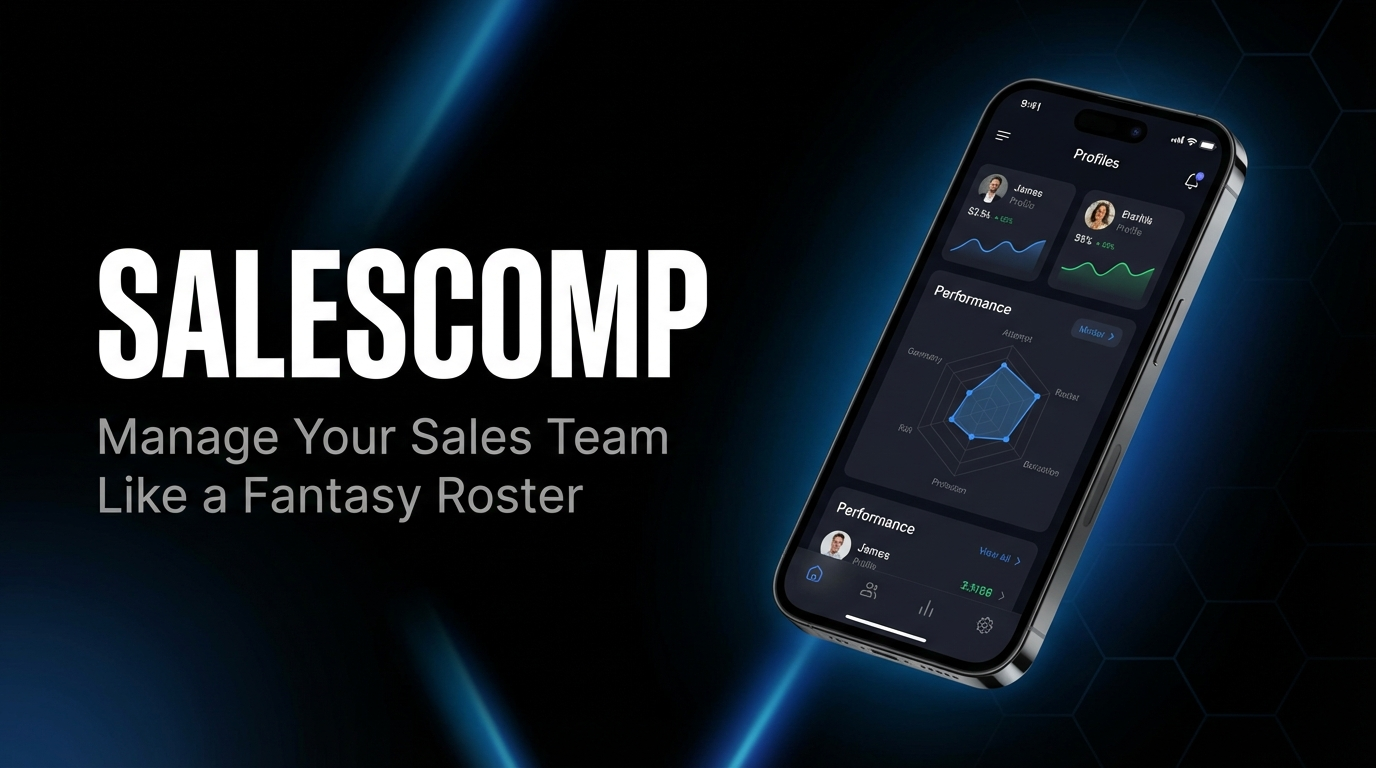
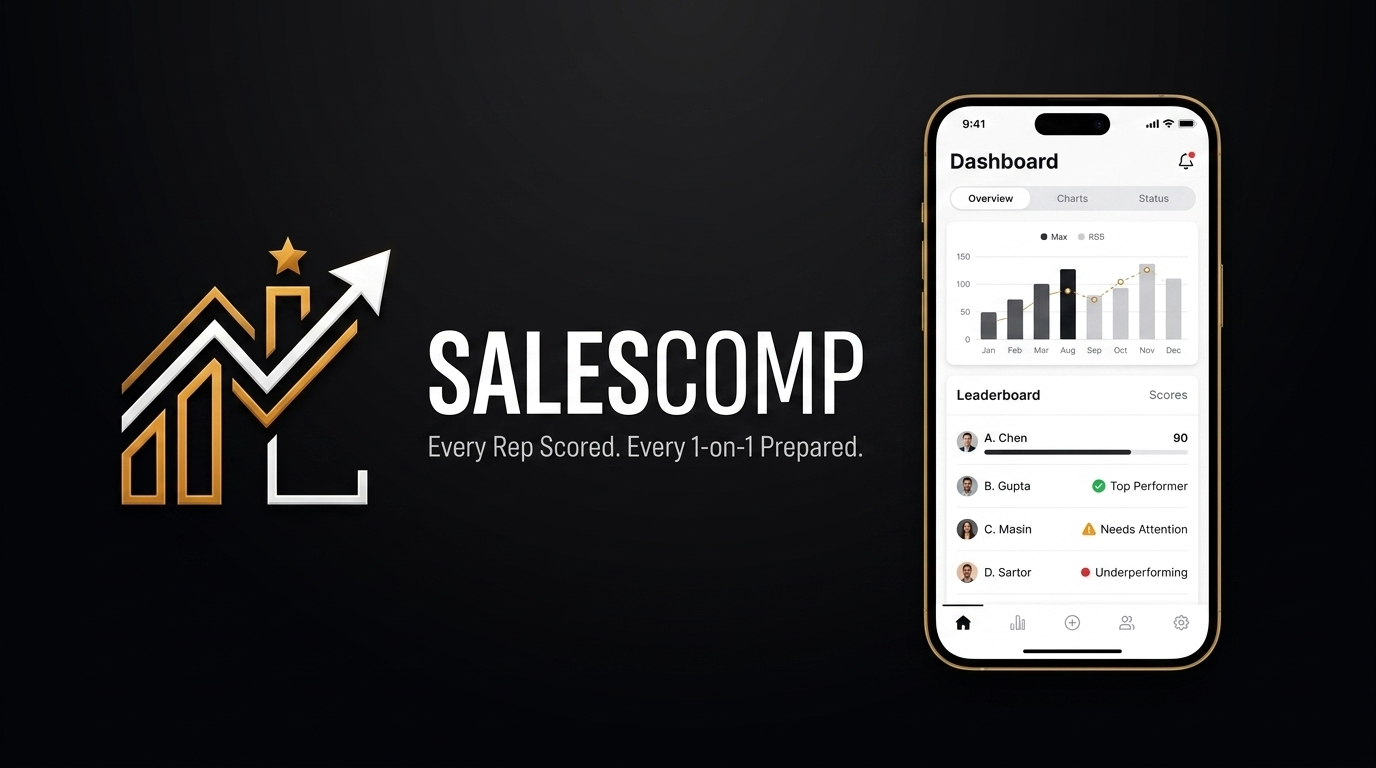
feat: add assists/Dynamic Duos + new OG social image
Adds sports-style assist tracking (SDR/prospector assists closer),
Dynamic Duos section on roster showing top pairings with combined
revenue, assist badges in activity feed, AST stat in player cards.
New 16:9 OG image for social media sharing.

diff --git a/salescomp/index.html b/salescomp/index.html
@@ -858,6 +858,23 @@ body{
 }
 
 /* Manager sees note */
+/* ===== DYNAMIC DUOS ===== */
+.duo-section{padding:0 16px;}
+.duo-card{background:var(--card);border:1px solid var(--border);border-radius:14px;padding:14px;margin-bottom:8px;display:flex;align-items:center;gap:12px;cursor:pointer;}
+.duo-card:active{opacity:.7;}
+.duo-photos{display:flex;align-items:center;flex-shrink:0;}
+.duo-photo{width:40px;height:40px;border-radius:50%;overflow:hidden;border:2px solid var(--border-l);background:var(--elevated);}
+.duo-photo img{width:100%;height:100%;object-fit:cover;object-position:center top;}
+.duo-photo:last-child{margin-left:-12px;}
+.duo-info{flex:1;min-width:0;}
+.duo-names{font-family:'Barlow Condensed',sans-serif;font-size:14px;font-weight:700;text-transform:uppercase;}
+.duo-role{font-size:11px;color:var(--t3);margin-top:1px;}
+.duo-stats{display:flex;gap:10px;margin-top:6px;}
+.duo-stat{font-size:11px;color:var(--t2);}
+.duo-stat strong{color:var(--t1);font-weight:700;}
+.duo-badge{flex-shrink:0;padding:4px 10px;border-radius:6px;font-family:'Barlow Condensed',sans-serif;font-size:12px;font-weight:700;text-transform:uppercase;letter-spacing:.3px;}
+.assist-tag{display:inline-flex;align-items:center;gap:3px;padding:2px 7px;border-radius:3px;font-size:9px;font-weight:700;text-transform:uppercase;letter-spacing:.3px;background:rgba(0,122,255,0.1);color:var(--blue);}
+
 .manager-sees-note {
   margin-top: 8px;
   padding: 8px 12px;
@@ -933,6 +950,10 @@ body{
     <!-- Focus This Week -->
     <div class="sh"><div class="sh-t" data-i18n="focus_this_week">Focus This Week</div></div>
     <div class="focus-cards" id="focusCards"></div>
+
+    <!-- Dynamic Duos -->
+    <div class="sh"><div class="sh-t" data-i18n="dynamic_duos">Dynamic Duos</div></div>
+    <div class="duo-section" id="duoSection"></div>
 
     <!-- Activity Feed -->
     <div class="sh"><div class="sh-t" data-i18n="recent_activity">Recent Activity</div><div class="sh-a" data-i18n="view_all">View All</div></div>
@@ -1118,9 +1139,27 @@ const T = {
     activity_deandra: 'has 3 deals in late stage that need attention',
     activity_tyler: 'hasn\'t updated CRM in 5 days',
     activity_sarah: 'created $62K in new pipeline this week',
+    activity_assist_sarah: 'assisted on Marcus\'s Henderson close ($45K)',
+    activity_assist_deandra: 'sourced the Vertex lead that Marcus is closing ($32K)',
+    time_30m: '30m ago',
     time_2h: '2h ago',
     time_4h: '4h ago',
     time_1d: '1d ago',
+
+    // Assists & Duos
+    dynamic_duos: 'Dynamic Duos',
+    assists: 'Assists',
+    ast: 'AST',
+    duo_builder_closer: 'Builder + Closer',
+    duo_builder_mgr: 'Builder + Account Mgr',
+    duo_sdr_closer: 'SDR + Closer',
+    duo_deals_together: 'deals together',
+    duo_best_pairing: 'Top Duo',
+    duo_assisted_rev: 'Assisted Rev',
+    assist_given: 'Assists Given',
+    assist_received: 'Assists Received',
+    assist_partner: 'Top Partner',
+    sourced_by: 'Sourced by',
 
     // Matchup
     mu_label: 'Head to Head',
@@ -1302,9 +1341,27 @@ const T = {
     activity_deandra: '最終段階の3件の案件に注目が必要',
     activity_tyler: '5日間CRM未更新',
     activity_sarah: '今週$62Kの新規パイプラインを創出',
+    activity_assist_sarah: 'Marcusのヘンダーソン成約をアシスト ($45K)',
+    activity_assist_deandra: 'Marcusがクロージング中のVertex案件を発掘 ($32K)',
+    time_30m: '30分前',
     time_2h: '2時間前',
     time_4h: '4時間前',
     time_1d: '1日前',
+
+    // Assists & Duos
+    dynamic_duos: 'ダイナミック・デュオ',
+    assists: 'アシスト',
+    ast: 'AST',
+    duo_builder_closer: 'ビルダー + クローザー',
+    duo_builder_mgr: 'ビルダー + アカウントMgr',
+    duo_sdr_closer: 'SDR + クローザー',
+    duo_deals_together: '件の共同案件',
+    duo_best_pairing: 'トップデュオ',
+    duo_assisted_rev: 'アシスト売上',
+    assist_given: 'アシスト提供',
+    assist_received: 'アシスト受領',
+    assist_partner: 'トップパートナー',
+    sourced_by: '発掘者:',
 
     // Matchup
     mu_label: '比較分析',
@@ -1540,6 +1597,7 @@ function setLang(l) {
   // Re-render dynamic content
   renderFocusCards();
   renderActivityFeed();
+  renderDuos();
   renderRoster();
   // Re-render current screen-specific content
   if (viewMode === 'manager') {
@@ -1562,6 +1620,7 @@ let currentTkIdx = 0;
 // ===== DATA =====
 const D=[
 {id:0,name:'Marcus Thompson',sh:'M. Thompson',f:'Marcus',img:'assets/marcus-thompson.png',role:'Closer',ten:'3yr',co:'Apex Solutions',score:91,avg:84,szn:87,tr:'+8',td:'up',st:'Hot',sc:'b-hot',dot:'var(--green)',sub:'7 deals this week',
+assists:2,assistsFrom:[{id:1,deals:1,rev:'$48K'},{id:3,deals:1,rev:'$34K'}],
 scoreBreakdown:{rev:95,pipe:72,activity:88,efficiency:96},
 stats:{d:7,r:'$142K',p:'$89K',c:'38%'},
 skills:[{l:'Closing',v:92,c:'var(--green)'},{l:'Negotiation',v:88,c:'var(--green)'},{l:'Relationships',v:78,c:'var(--blue)'},{l:'Pipeline Mgmt',v:65,c:'var(--amber)'},{l:'Prospecting',v:48,c:'var(--red)'},{l:'CRM Discipline',v:72,c:'var(--blue)'}],
@@ -1592,6 +1651,7 @@ improveEn: ['Add 5 more outbound touches per week to close your prospecting gap.
 improveJp: ['見込み客開拓のギャップを埋めるため、週5件のアウトバウンドを追加しましょう。', 'メリディアンには標準的なフォローアップではなく、より柔らかい再エンゲージメントを検討してください。', 'エンタープライズの成約率を活かして、より大きな案件を追求しましょう。']
 },
 {id:1,name:'Sarah Chen',sh:'S. Chen',f:'Sarah',img:'assets/sarah-chen.png',role:'Pipeline Builder',ten:'2yr',co:'Apex Solutions',score:82,avg:74,szn:76,tr:'+6',td:'up',st:'Streak',sc:'b-str',dot:'var(--amber)',sub:'$178K new pipeline',
+assists:5,assistsTo:[{id:0,deals:3,rev:'$125K'},{id:2,deals:2,rev:'$44K'}],
 scoreBreakdown:{rev:62,pipe:96,activity:92,efficiency:68},
 stats:{d:3,r:'$48K',p:'$178K',c:'24%'},
 skills:[{l:'Closing',v:55,c:'var(--amber)'},{l:'Negotiation',v:62,c:'var(--amber)'},{l:'Relationships',v:74,c:'var(--blue)'},{l:'Pipeline Mgmt',v:94,c:'var(--green)'},{l:'Prospecting',v:91,c:'var(--green)'},{l:'CRM Discipline',v:88,c:'var(--green)'}],
@@ -1621,6 +1681,7 @@ improveEn: ['Practice pricing objection handling. Consider role-playing with Mar
 improveJp: ['価格異議への対応を練習しましょう。Marcusとのロールプレイを検討してください。', '発掘段階の案件を提案段階により早く進めることに注力しましょう。', 'パイプラインの量はエリート級です。次はコンバージョンの質に注力しましょう。']
 },
 {id:2,name:'Jake Rivera',sh:'J. Rivera',f:'Jake',img:'assets/jake-rivera.png',role:'Account Manager',ten:'4yr',co:'Apex Solutions',score:75,avg:72,szn:73,tr:'+3',td:'up',st:null,sc:null,dot:null,sub:'94% account retention',
+assists:1,assistsTo:[{id:0,deals:1,rev:'$32K'}],
 scoreBreakdown:{rev:78,pipe:70,activity:72,efficiency:80},
 stats:{d:4,r:'$82K',p:'$65K',c:'32%'},
 skills:[{l:'Closing',v:72,c:'var(--blue)'},{l:'Negotiation',v:70,c:'var(--blue)'},{l:'Relationships',v:85,c:'var(--green)'},{l:'Pipeline Mgmt',v:75,c:'var(--blue)'},{l:'Prospecting',v:68,c:'var(--blue)'},{l:'CRM Discipline',v:80,c:'var(--green)'}],
@@ -1649,6 +1710,7 @@ improveEn: ['Pursue one net-new enterprise account to stretch beyond your comfor
 improveJp: ['新規エンタープライズ案件を一つ追求し、コンフォートゾーンを超えましょう。', 'Apexのステークホルダー関係を拡大し、単一障害点リスクを軽減しましょう。', '関係構築スキルはエリート級です。更新だけでなく新規ビジネスにも活かしましょう。']
 },
 {id:3,name:'DeAndra Williams',sh:'D. Williams',f:'DeAndra',img:'assets/deandra-williams.png',role:'SDR',ten:'6mo',co:'Apex Solutions',score:64,avg:52,szn:55,tr:'+12',td:'up',st:'Questionable',sc:'b-q',dot:'var(--amber)',sub:'3 deals in late stage',
+assists:3,assistsTo:[{id:0,deals:2,rev:'$73K'},{id:2,deals:1,rev:'$18K'}],
 scoreBreakdown:{rev:42,pipe:78,activity:88,efficiency:38},
 stats:{d:2,r:'$24K',p:'$134K',c:'18%'},
 skills:[{l:'Closing',v:42,c:'var(--red)'},{l:'Negotiation',v:38,c:'var(--red)'},{l:'Relationships',v:58,c:'var(--amber)'},{l:'Pipeline Mgmt',v:55,c:'var(--amber)'},{l:'Prospecting',v:85,c:'var(--green)'},{l:'CRM Discipline',v:70,c:'var(--blue)'}],
@@ -1678,6 +1740,7 @@ improveEn: ['Practice the "ask" in closing. Shadow Marcus on his next deal.', 'B
 improveJp: ['クロージングの「お願い」を練習しましょう。Marcusの次の案件に同席してください。', '2回目の商談のフレームワークを作り、発掘段階を突破しましょう。', '見込み客開拓はエリート級。そのエネルギーをクロージングの自信に変換しましょう。']
 },
 {id:4,name:'Tyler Brooks',sh:'T. Brooks',f:'Tyler',img:'assets/tyler-brooks.png',role:'Veteran',ten:'7yr',co:'Apex Solutions',score:48,avg:62,szn:58,tr:'-14',td:'down',st:'Cold',sc:'b-cold',dot:'var(--red)',sub:'CRM 3 weeks behind',
+assists:0,assistsTo:[],
 scoreBreakdown:{rev:55,pipe:32,activity:28,efficiency:72},
 stats:{d:2,r:'$38K',p:'$12K',c:'25%'},
 skills:[{l:'Closing',v:68,c:'var(--blue)'},{l:'Negotiation',v:82,c:'var(--green)'},{l:'Relationships',v:90,c:'var(--green)'},{l:'Pipeline Mgmt',v:45,c:'var(--red)'},{l:'Prospecting',v:32,c:'var(--red)'},{l:'CRM Discipline',v:28,c:'var(--red)'}],
@@ -2122,11 +2185,41 @@ function renderFocusCards() {
   `;
 }
 
+// ===== RENDER DYNAMIC DUOS =====
+function renderDuos() {
+  const duos = [
+    { a: 1, b: 0, type: 'duo_builder_closer', deals: 3, rev: '$125K', revNum: 125 },
+    { a: 3, b: 0, type: 'duo_sdr_closer', deals: 2, rev: '$73K', revNum: 73 },
+    { a: 1, b: 2, type: 'duo_builder_mgr', deals: 2, rev: '$44K', revNum: 44 }
+  ];
+  document.getElementById('duoSection').innerHTML = duos.map((duo, i) => {
+    const pA = D[duo.a], pB = D[duo.b];
+    const isBest = i === 0;
+    return `<div class="duo-card" onclick="openCard(${duo.b})">
+      <div class="duo-photos">
+        <div class="duo-photo"><img src="${pA.img}"></div>
+        <div class="duo-photo"><img src="${pB.img}"></div>
+      </div>
+      <div class="duo-info">
+        <div class="duo-names">${pA.f} + ${pB.f}</div>
+        <div class="duo-role">${t(duo.type)}</div>
+        <div class="duo-stats">
+          <div class="duo-stat"><strong>${duo.rev}</strong> ${t('duo_assisted_rev')}</div>
+          <div class="duo-stat"><strong>${duo.deals}</strong> ${t('duo_deals_together')}</div>
+        </div>
+      </div>
+      ${isBest ? `<div class="duo-badge" style="background:var(--green-bg);color:var(--green);">${t('duo_best_pairing')}</div>` : ''}
+    </div>`;
+  }).join('');
+}
+
 // ===== RENDER ACTIVITY FEED =====
 function renderActivityFeed() {
   document.getElementById('activityFeed').innerHTML = `
     <div class="feed-item"><div class="feed-dot" style="background:var(--green)"></div><div class="feed-text"><strong>Marcus Thompson</strong> ${t('activity_marcus')}</div><div class="feed-time">${t('time_2h')}</div></div>
+    <div class="feed-item"><div class="feed-dot" style="background:var(--blue)"></div><div class="feed-text"><strong>Sarah Chen</strong> ${t('activity_assist_sarah')} <span class="assist-tag"><svg width="10" height="10" viewBox="0 0 24 24" fill="none" stroke="currentColor" stroke-width="2.5"><path d="M17 1l4 4-4 4"/><path d="M3 11V9a4 4 0 014-4h14"/><path d="M7 23l-4-4 4-4"/><path d="M21 13v2a4 4 0 01-4 4H3"/></svg> ${t('ast')}</span></div><div class="feed-time">${t('time_30m')}</div></div>
     <div class="feed-item"><div class="feed-dot" style="background:var(--amber)"></div><div class="feed-text"><strong>DeAndra Williams</strong> ${t('activity_deandra')}</div><div class="feed-time">${t('time_4h')}</div></div>
+    <div class="feed-item"><div class="feed-dot" style="background:var(--blue)"></div><div class="feed-text"><strong>DeAndra Williams</strong> ${t('activity_assist_deandra')} <span class="assist-tag"><svg width="10" height="10" viewBox="0 0 24 24" fill="none" stroke="currentColor" stroke-width="2.5"><path d="M17 1l4 4-4 4"/><path d="M3 11V9a4 4 0 014-4h14"/><path d="M7 23l-4-4 4-4"/><path d="M21 13v2a4 4 0 01-4 4H3"/></svg> ${t('ast')}</span></div><div class="feed-time">${t('time_1d')}</div></div>
     <div class="feed-item"><div class="feed-dot" style="background:var(--red)"></div><div class="feed-text"><strong>Tyler Brooks</strong> ${t('activity_tyler')}</div><div class="feed-time">${t('time_1d')}</div></div>
     <div class="feed-item"><div class="feed-dot" style="background:var(--green)"></div><div class="feed-text"><strong>Sarah Chen</strong> ${t('activity_sarah')}</div><div class="feed-time">${t('time_1d')}</div></div>
   `;
@@ -2164,7 +2257,7 @@ function renderRoster(){
           <span class="p-name">${p.sh}</span>
           ${statusTxt?`<span class="p-badge ${p.sc}">${statusTxt}</span>`:''}
         </div>
-        <div class="p-sub">${roleTxt} &middot; ${p.ten} &middot; ${p.qPct}% ${t('to_quota').toLowerCase()}</div>
+        <div class="p-sub">${roleTxt} &middot; ${p.ten} &middot; ${p.qPct}% ${t('to_quota').toLowerCase()}${p.assists > 0 ? ` &middot; ${p.assists} ${t('ast')}` : ''}</div>
       </div>
       <div class="p-nums" style="display:flex;align-items:center;gap:8px;">
         ${sparkSVG(p.spark)}
@@ -2238,6 +2331,7 @@ function openCard(i){
       <div class="cm-qs"><div class="cm-qs-v">${p.avg}</div><div class="cm-qs-l">${t('avg_score')}</div><div class="cm-qs-d" style="color:var(--t3)">${t('team_colon')} 68</div></div>
       <div class="cm-qs"><div class="cm-qs-v">${p.qPct}%</div><div class="cm-qs-l">${t('to_quota')}</div><div class="cm-qs-d" style="color:${qColor}">${p.qPct>=100?t('on_target'):'$'+(Math.round((p.quota-p.qActual)/1000))+'K '+t('remaining')}</div></div>
       <div class="cm-qs"><div class="cm-qs-v">${p.stats.c}</div><div class="cm-qs-l">${t('close_rate_label')}</div></div>
+      <div class="cm-qs"><div class="cm-qs-v" style="color:var(--blue)">${p.assists}</div><div class="cm-qs-l">${t('ast')}</div></div>
     </div>
   `;
 
@@ -2763,6 +2857,7 @@ document.getElementById('vmMgr').textContent = t('view_manager');
 document.getElementById('vmRep').textContent = t('view_rep');
 renderFocusCards();
 renderActivityFeed();
+renderDuos();
 renderRoster();
 tourUpdateWelcomeText();
 </script>
